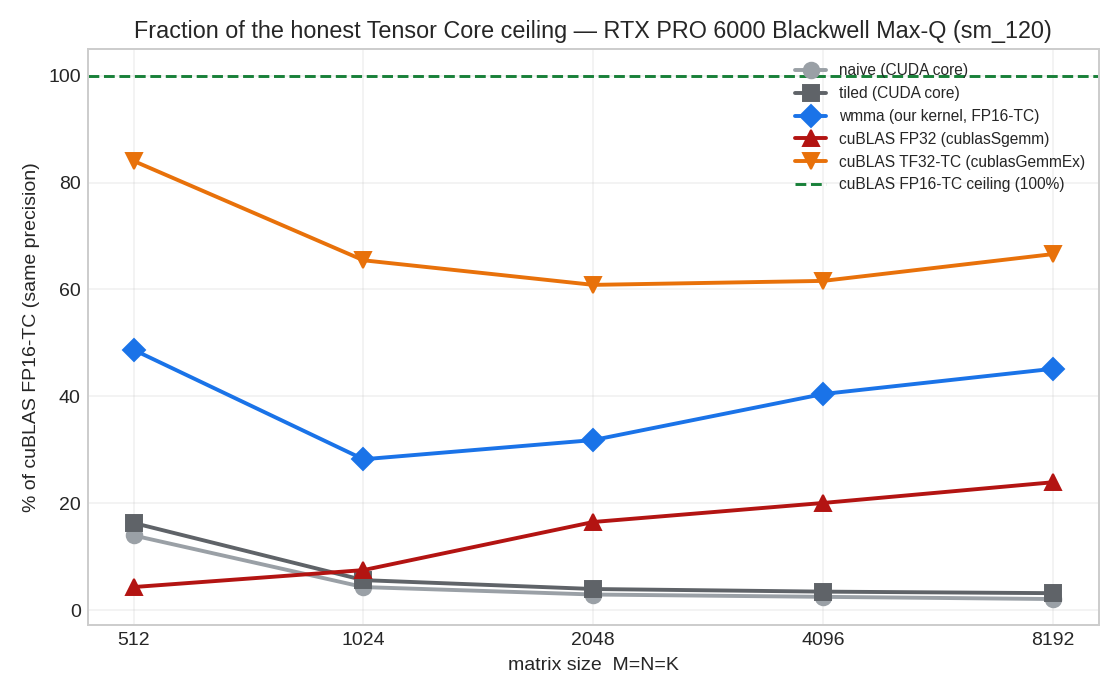
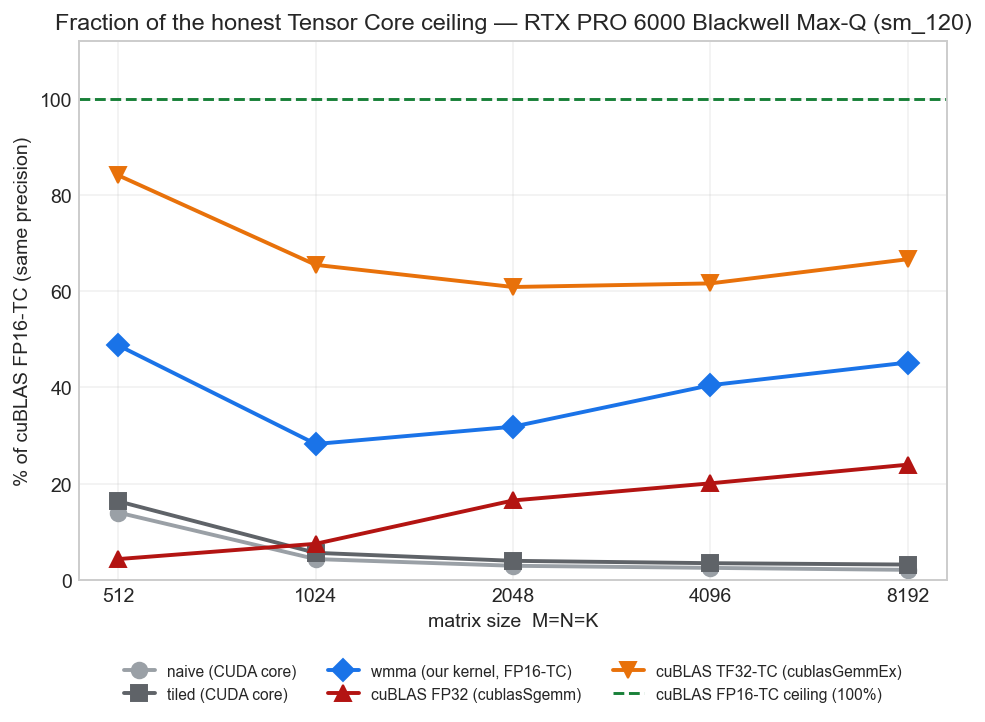
fix(charts): move line-chart legends below the axes — no more line/legend overlap
The 100% ceiling dashed line in pct_tc and the FP16-TC curve in tflops
crossed through the semi-transparent legend box. Legends now sit outside
the plot area (bottom, 3-column, opaque) so data lines can never overlap
them. Charts regenerated from the committed bench.csv (data unchanged).

diff --git a/analysis/plot.py b/analysis/plot.py
@@ -75,9 +75,13 @@ def main():
             ax.get_xaxis().set_major_formatter(plt.matplotlib.ticker.ScalarFormatter())
             ax.set_xlabel("matrix size  M=N=K"); ax.set_ylabel("throughput (TFLOP/s)")
             ax.set_title(f"GEMM throughput — {short} (sm_{sm})\nFP32 → TF32 → FP16 precision ladder, all on one card")
-            ax.legend(fontsize=8, framealpha=.9); ax.grid(True, alpha=.3)
+            # legend below the axes so it can never overlap the data lines
+            leg = ax.legend(fontsize=8, framealpha=1.0, loc="upper center",
+                            bbox_to_anchor=(0.5, -0.13), ncol=3)
+            ax.grid(True, alpha=.3)
             p1 = f"tflops_sm{sm}.png"
-            fig.tight_layout(); fig.savefig(os.path.join(HERE,"results",p1), dpi=140); plt.close(fig)
+            fig.savefig(os.path.join(HERE,"results",p1), dpi=140,
+                        bbox_inches="tight", bbox_extra_artists=[leg]); plt.close(fig)
 
             # ---- Chart 2: % of cuBLAS-TC (same-precision ceiling) ----
             tc = {s: tf for (s, tf, *_ ) in sorted(kerns.get("cublas_tc", []))}
@@ -92,9 +96,14 @@ def main():
             ax.get_xaxis().set_major_formatter(plt.matplotlib.ticker.ScalarFormatter())
             ax.set_xlabel("matrix size  M=N=K"); ax.set_ylabel("% of cuBLAS FP16-TC (same precision)")
             ax.set_title(f"Fraction of the honest Tensor Core ceiling — {short} (sm_{sm})")
-            ax.legend(fontsize=8, framealpha=.9); ax.grid(True, alpha=.3)
+            ax.set_ylim(0, 112)  # headroom so the 100% ceiling line sits clear of the frame
+            # legend below the axes so the 100% dashed line never crosses it
+            leg = ax.legend(fontsize=8, framealpha=1.0, loc="upper center",
+                            bbox_to_anchor=(0.5, -0.13), ncol=3)
+            ax.grid(True, alpha=.3)
             p2 = f"pct_tc_sm{sm}.png"
-            fig.tight_layout(); fig.savefig(os.path.join(HERE,"results",p2), dpi=140); plt.close(fig)
+            fig.savefig(os.path.join(HERE,"results",p2), dpi=140,
+                        bbox_inches="tight", bbox_extra_artists=[leg]); plt.close(fig)
 
             # ---- Chart 3: TFLOP/s bar at largest size (precision ladder) ----
             fig, ax = plt.subplots(figsize=(8, 5))